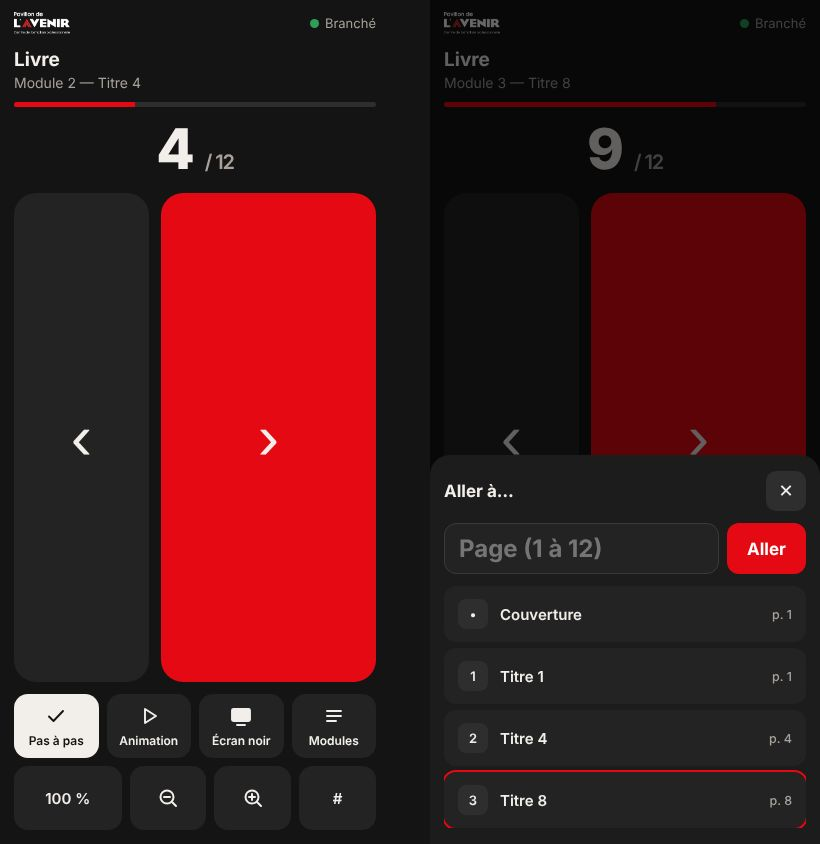
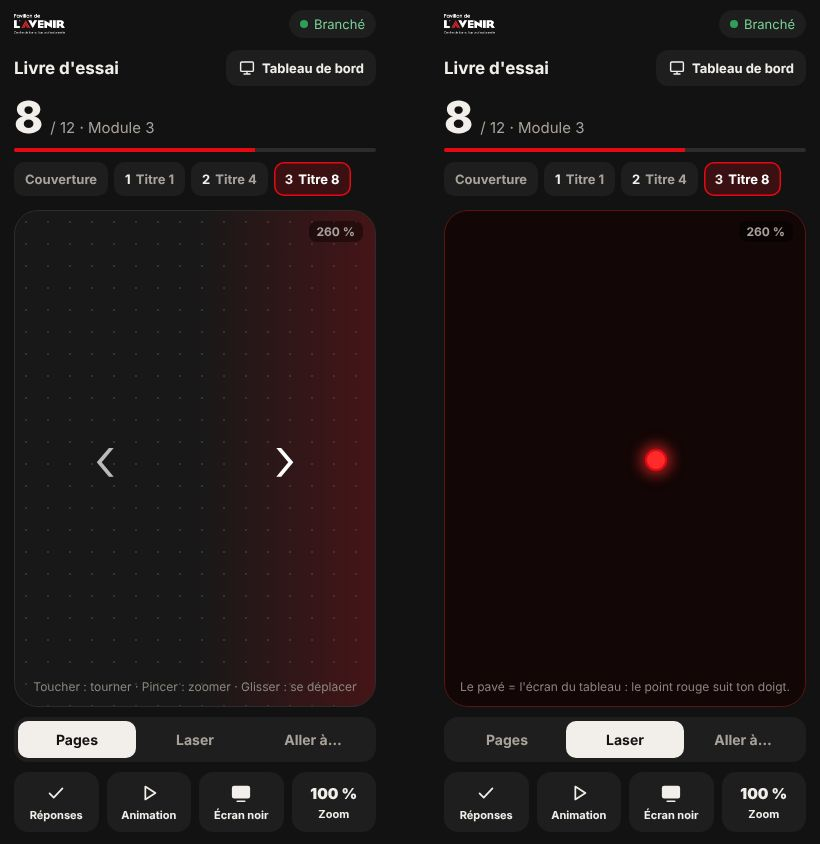
Télécommande « tout en un pavé », bouton Tableau de bord, pastille « Télécommande branchée » dans le livre

diff --git a/telecommande.html b/telecommande.html
@@ -3,84 +3,98 @@
 <head>
 <meta charset="utf-8">
 <meta name="viewport" content="width=device-width,initial-scale=1,viewport-fit=cover,user-scalable=no">
-<meta name="theme-color" content="#141414">
+<meta name="theme-color" content="#121212">
 <title>Télécommande</title>
 <script src="https://cdn.jsdelivr.net/npm/@supabase/supabase-js@2.50.0/dist/umd/supabase.min.js"></script>
 <style>
-:root{--fond:#141414;--carte:#232323;--carte2:#2E2E2E;--txt:#F2EFEA;--gris:#A8A29A;--rouge:#E50914;--vert:#2E9E5B}
+:root{--fond:#121212;--carte:#1E1E1E;--carte2:#2C2C2C;--txt:#F2EFEA;--gris:#A8A29A;--rouge:#E50914;--vert:#2E9E5B}
 *{box-sizing:border-box;-webkit-tap-highlight-color:transparent}
 html,body{margin:0;height:100%;background:var(--fond);color:var(--txt);font-family:system-ui,-apple-system,"Segoe UI",sans-serif;overscroll-behavior:none;-webkit-user-select:none;user-select:none}
-body{display:flex;flex-direction:column;padding:calc(env(safe-area-inset-top) + 12px) 14px calc(env(safe-area-inset-bottom) + 14px)}
-.haut{display:flex;align-items:center;gap:10px}
-.haut img{height:22px}
-.etat{margin-left:auto;font-size:13px;color:var(--gris);display:flex;align-items:center;gap:6px}
-.etat i{width:9px;height:9px;border-radius:50%;background:#777}.etat.ok i{background:var(--vert)}.etat.ko i{background:var(--rouge)}
-h1{font-size:19px;margin:14px 0 2px;line-height:1.25;display:-webkit-box;-webkit-line-clamp:2;-webkit-box-orient:vertical;overflow:hidden}
-.ou{color:var(--gris);font-size:14px;min-height:18px}
-.barre{height:5px;background:var(--carte2);border-radius:3px;margin:10px 0 14px;overflow:hidden}.barre b{display:block;height:100%;width:0;background:var(--rouge);transition:width .3s}
-.page{font-size:56px;font-weight:800;text-align:center;letter-spacing:-.02em;line-height:1}
-.page small{font-size:20px;color:var(--gris);font-weight:600}
-.fleches{flex:1;display:grid;grid-template-columns:1fr 1.6fr;gap:12px;margin:16px 0 12px;min-height:180px}
-.fleches button{border:0;border-radius:22px;background:var(--carte);color:var(--txt);font-size:64px;font-weight:300;touch-action:manipulation;transition:transform .08s,background .15s}
-.fleches #suiv{background:var(--rouge)}
-.fleches button:active{transform:scale(.97);background:#3a3a3a}.fleches #suiv:active{background:#B80710}
-.outils{display:grid;grid-template-columns:repeat(4,1fr);gap:8px}
-.outils button,.bas button{border:0;border-radius:14px;background:var(--carte);color:var(--txt);min-height:64px;font:600 12px system-ui,sans-serif;display:flex;flex-direction:column;align-items:center;justify-content:center;gap:5px;touch-action:manipulation}
-.outils button:active,.bas button:active{background:var(--carte2)}
-.outils button.on{background:#F2EFEA;color:#141414}
-.outils svg,.bas svg{width:24px;height:24px}
-.bas{display:grid;grid-template-columns:1.4fr 1fr 1fr 1fr;gap:8px;margin-top:8px}
-.bas button{flex-direction:row;font-size:15px}
+body{display:flex;flex-direction:column;padding:calc(env(safe-area-inset-top) + 10px) 14px calc(env(safe-area-inset-bottom) + 12px)}
+button{font-family:inherit;touch-action:manipulation}
+svg{width:22px;height:22px;fill:none;stroke:currentColor;stroke-width:1.9;stroke-linecap:round;stroke-linejoin:round}
+.cache{display:none!important}
+/* haut */
+.l1{display:flex;align-items:center;gap:10px}
+.l1 img{height:20px}
+.etat{margin-left:auto;font-size:13px;color:var(--gris);display:flex;align-items:center;gap:6px;background:var(--carte);border-radius:20px;padding:6px 11px}
+.etat i{width:8px;height:8px;border-radius:50%;background:#777}.etat.ok{color:#7BD39A}.etat.ok i{background:var(--vert)}.etat.ko i{background:var(--rouge)}
+.l2{display:flex;align-items:center;gap:10px;margin-top:12px}
+.l2 h1{flex:1;min-width:0;font-size:17px;margin:0;white-space:nowrap;overflow:hidden;text-overflow:ellipsis}
+#bTdb{flex:none;border:0;background:var(--carte);color:var(--txt);border-radius:12px;padding:9px 12px;font-size:13px;font-weight:700;display:flex;gap:6px;align-items:center}
+#bTdb svg{width:18px;height:18px}
+#bTdb.on{background:var(--txt);color:var(--fond)}
+.page{display:flex;align-items:baseline;gap:8px;margin-top:8px}
+.page b{font-size:44px;font-weight:800;letter-spacing:-.02em;line-height:1.05}
+.page span{color:var(--gris);font-size:15px;white-space:nowrap;overflow:hidden;text-overflow:ellipsis}
+.barre{height:4px;background:var(--carte2);border-radius:2px;margin-top:8px;overflow:hidden}.barre i{display:block;height:100%;width:0;background:var(--rouge);transition:width .3s}
+.mods{display:flex;gap:6px;margin-top:10px;overflow-x:auto;scrollbar-width:none;-webkit-overflow-scrolling:touch;padding-bottom:2px}
+.mods::-webkit-scrollbar{display:none}
+.mods button{flex:none;border:0;background:var(--carte);color:var(--gris);border-radius:10px;padding:9px 11px;font-size:13px;font-weight:700;white-space:nowrap}
+.mods button.on{background:#3a1012;color:#fff;box-shadow:inset 0 0 0 1.5px var(--rouge)}
+.mods em{font-style:normal;color:var(--txt);margin-right:5px}
+/* pavé */
+.pad{flex:1;min-height:170px;margin:12px 0 10px;border-radius:24px;background:#181818;border:1px solid #2C2C2C;position:relative;overflow:hidden;touch-action:none;
+  background-image:radial-gradient(circle,#333 1.2px,transparent 1.4px);background-size:22px 22px}
+.cote{position:absolute;top:0;bottom:0;width:50%;display:flex;align-items:center;justify-content:center;font-size:62px;font-weight:300;color:#bbb;pointer-events:none;transition:background .15s}
+.cote.g{left:0}.cote.d{right:0;color:#fff;background:linear-gradient(90deg,transparent,rgba(229,9,20,.22))}
+.cote.flash{background:rgba(255,255,255,.12)!important}
+.aide{position:absolute;left:0;right:0;bottom:12px;text-align:center;font-size:12px;color:#8a857e;pointer-events:none;padding:0 12px}
+.doigt{position:absolute;width:50px;height:50px;margin:-25px 0 0 -25px;border-radius:50%;background:rgba(229,9,20,.3);border:2px solid var(--rouge);pointer-events:none;display:none}
+.pad.laser{background:#120606;background-image:none;border-color:#5a1414}
+.pad.laser .cote{display:none}
+.pad.laser .doigt{width:22px;height:22px;margin:-11px 0 0 -11px;background:#FF2A2A;box-shadow:0 0 14px 4px rgba(255,42,42,.7)}
+.zoomtag{position:absolute;top:10px;right:12px;font-size:12px;font-weight:700;color:var(--gris);background:rgba(0,0,0,.4);border-radius:8px;padding:3px 8px;pointer-events:none}
+/* bas */
+.seg{display:grid;grid-template-columns:repeat(3,1fr);background:var(--carte);border-radius:14px;padding:4px}
+.seg button{border:0;background:transparent;color:var(--gris);border-radius:10px;padding:10px;font-size:14px;font-weight:700}
+.seg button.on{background:var(--txt);color:var(--fond)}
+.outils{display:grid;grid-template-columns:repeat(4,1fr);gap:8px;margin-top:10px}
+.outils button{border:0;background:var(--carte);color:var(--txt);border-radius:14px;height:60px;display:flex;flex-direction:column;align-items:center;justify-content:center;gap:4px;font-size:11px;font-weight:700}
+.outils button:active,.mods button:active,#bTdb:active{filter:brightness(1.3)}
+.outils button.on{background:var(--txt);color:var(--fond)}
+.outils button:disabled{opacity:.35}
+.outils b{font-size:15px}
+/* feuille Aller à */
 .feuille{position:fixed;inset:0;background:rgba(0,0,0,.6);display:flex;align-items:flex-end;z-index:5}
 .feuille[hidden]{display:none}
-.feuille>div{background:#1C1C1C;width:100%;max-height:82vh;border-radius:20px 20px 0 0;padding:16px 14px calc(env(safe-area-inset-bottom) + 16px);display:flex;flex-direction:column;gap:12px}
+.feuille>div{background:#1A1A1A;width:100%;max-height:84vh;border-radius:20px 20px 0 0;padding:16px 14px calc(env(safe-area-inset-bottom) + 16px);display:flex;flex-direction:column;gap:12px}
 .feuille h2{margin:0;font-size:17px;display:flex;justify-content:space-between;align-items:center}
 .feuille h2 button{border:0;background:var(--carte2);color:var(--txt);border-radius:10px;width:40px;height:40px;font-size:18px}
 .saut{display:flex;gap:8px}.saut input{flex:1;min-width:0;font:700 24px system-ui;background:var(--carte);border:1px solid #3a3a3a;color:var(--txt);border-radius:12px;padding:10px 14px}
-.saut button{border:0;border-radius:12px;background:var(--rouge);color:#fff;font:700 17px system-ui;padding:0 20px}
+.saut button{border:0;border-radius:12px;background:var(--rouge);color:#fff;font-size:17px;font-weight:700;padding:0 20px}
 .liste{overflow:auto;display:flex;flex-direction:column;gap:6px;-webkit-overflow-scrolling:touch}
-.liste button{border:0;text-align:left;background:var(--carte);color:var(--txt);border-radius:12px;padding:13px 14px;font:600 15px system-ui;display:flex;gap:12px;align-items:center}
-.liste button.ici{outline:2px solid var(--rouge)}
+.liste button{border:0;text-align:left;background:var(--carte);color:var(--txt);border-radius:12px;padding:13px 14px;font-size:15px;font-weight:600;display:flex;gap:12px;align-items:center}
+.liste button.on{box-shadow:inset 0 0 0 2px var(--rouge)}
 .liste em{font-style:normal;min-width:30px;height:30px;border-radius:8px;background:var(--carte2);display:inline-flex;align-items:center;justify-content:center;font-size:13px}
 .liste span{flex:1}.liste small{color:var(--gris);font-weight:500}
+/* attente */
 .vide{flex:1;display:flex;flex-direction:column;align-items:center;justify-content:center;text-align:center;color:var(--gris);gap:12px;padding:20px;font-size:16px;line-height:1.45}
 .vide b{color:var(--txt);font-size:20px}
-.cache{display:none!important}
-.mode{display:grid;grid-template-columns:.8fr 1.3fr .8fr;gap:4px;background:var(--carte);border-radius:12px;padding:4px;margin-top:14px}
-.mode button{border:0;border-radius:9px;background:transparent;color:var(--gris);font:700 14px system-ui;padding:9px}
-.mode button.on{background:var(--carte2);color:var(--txt)}
-.pad{flex:1;margin:12px 0;min-height:180px;border-radius:22px;background:#1B1B1B;border:1px solid #333;position:relative;touch-action:none;overflow:hidden;
-  background-image:radial-gradient(circle,#3a3a3a 1.2px,transparent 1.4px);background-size:22px 22px}
-.pad span{position:absolute;inset:0;display:flex;align-items:center;justify-content:center;text-align:center;color:var(--gris);font-size:15px;padding:20px;pointer-events:none;line-height:1.4}
-.pad.laser{background-image:none;background:#120606;border-color:#5a1414}
-.pad.laser i{width:22px;height:22px;margin:-11px 0 0 -11px;background:#FF2A2A;box-shadow:0 0 14px 4px rgba(255,42,42,.7)}
-.pad i{position:absolute;width:54px;height:54px;margin:-27px 0 0 -27px;border-radius:50%;background:rgba(229,9,20,.35);border:2px solid var(--rouge);pointer-events:none;display:none}
 </style>
 </head>
 <body>
-<div class="haut"><img src="img/pavillon-avenir-blanc.png" alt="Pavillon de l'Avenir"><span class="etat" id="etat"><i></i><span>Connexion…</span></span></div>
+<div class="l1"><img src="img/pavillon-avenir-blanc.png" alt="Pavillon de l'Avenir"><span class="etat" id="etat"><i></i><span>Connexion…</span></span></div>
 
 <div id="attente" class="vide"><b>Télécommande</b><span id="attTxt">Connexion à l'ordinateur du tableau…</span></div>
 
-<div id="tele" class="cache" style="display:flex;flex-direction:column;flex:1">
-  <h1 id="titre"></h1>
-  <div class="ou" id="ou"></div>
-  <div class="barre"><b id="prog"></b></div>
-  <div class="page" id="page">–</div>
-  <div class="mode"><button id="mPages" class="on">Pages</button><button id="mPad">Zoom et déplacer</button><button id="mLaser">Laser</button></div>
-  <div class="pad cache" id="pad"><span id="padTxt">Un doigt : te promener. Deux doigts : pincer pour zoomer.</span><i id="padDoigt"></i></div>
-  <div class="fleches"><button id="prec" aria-label="Page précédente">‹</button><button id="suiv" aria-label="Page suivante">›</button></div>
-  <div class="outils">
-    <button id="bRep"><svg viewBox="0 0 24 24" fill="none" stroke="currentColor" stroke-width="1.9" stroke-linecap="round" stroke-linejoin="round"><path d="M5 12.5l4.5 4.5L19 7"/></svg><span id="bRepT">Réponses</span></button>
-    <button id="bAnim"><svg viewBox="0 0 24 24" fill="none" stroke="currentColor" stroke-width="1.9" stroke-linecap="round" stroke-linejoin="round"><path d="M8 5l11 7-11 7z"/></svg>Animation</button>
-    <button id="bNoir"><svg viewBox="0 0 24 24" fill="none" stroke="currentColor" stroke-width="1.9" stroke-linecap="round" stroke-linejoin="round"><rect x="3" y="5" width="18" height="12" rx="1.5" fill="currentColor"/><path d="M8 21h8"/></svg>Écran noir</button>
-    <button id="bAller"><svg viewBox="0 0 24 24" fill="none" stroke="currentColor" stroke-width="1.9" stroke-linecap="round" stroke-linejoin="round"><path d="M5 7h14M5 12h14M5 17h9"/></svg>Modules</button>
+<div id="tele" class="cache" style="display:flex;flex-direction:column;flex:1;min-height:0">
+  <div class="l2"><h1 id="titre"></h1><button id="bTdb"><svg viewBox="0 0 24 24"><rect x="3.5" y="4" width="17" height="12.5" rx="1.5"/><path d="M8 20h8M12 16.5V20"/></svg><span id="bTdbT">Tableau de bord</span></button></div>
+  <div class="page"><b id="pNum">–</b><span id="pInfo"></span></div>
+  <div class="barre"><i id="prog"></i></div>
+  <div class="mods" id="mods"></div>
+  <div class="pad" id="pad">
+    <div class="cote g" id="cG">‹</div><div class="cote d" id="cD">›</div>
+    <span class="zoomtag cache" id="zTag"></span>
+    <div class="aide" id="aide">Toucher : tourner · Pincer : zoomer · Glisser : se déplacer</div>
+    <i class="doigt" id="doigt"></i>
   </div>
-  <div class="bas">
-    <button id="bZv">100 %</button>
-    <button id="bZo" aria-label="Zoom arrière"><svg viewBox="0 0 24 24" fill="none" stroke="currentColor" stroke-width="2" stroke-linecap="round"><circle cx="11" cy="11" r="6.5"/><path d="M8 11h6M16 16l4 4"/></svg></button>
-    <button id="bZi" aria-label="Zoom avant"><svg viewBox="0 0 24 24" fill="none" stroke="currentColor" stroke-width="2" stroke-linecap="round"><circle cx="11" cy="11" r="6.5"/><path d="M8 11h6M11 8v6M16 16l4 4"/></svg></button>
-    <button id="bPage" aria-label="Aller à une page">#</button>
+  <div class="seg"><button id="sPages" class="on">Pages</button><button id="sLaser">Laser</button><button id="sAller">Aller à…</button></div>
+  <div class="outils">
+    <button id="bRep"><svg viewBox="0 0 24 24"><path d="M5 12.5l4.5 4.5L19 7"/></svg><span id="bRepT">Réponses</span></button>
+    <button id="bAnim"><svg viewBox="0 0 24 24"><path d="M8 5l11 7-11 7z"/></svg>Animation</button>
+    <button id="bNoir"><svg viewBox="0 0 24 24"><rect x="3" y="5" width="18" height="12" rx="1.5" fill="currentColor"/><path d="M8 21h8"/></svg>Écran noir</button>
+    <button id="bZv"><b>100 %</b>Zoom</button>
   </div>
 </div>
 
@@ -91,63 +105,71 @@ h1{font-size:19px;margin:14px 0 2px;line-height:1.25;display:-webkit-box;-webkit
 </div></div>
 
 <script>
-/* Télécommande des livres (Bibliothèque du Pavillon de l'Avenir).
+/* Télécommande des livres (Bibliothèque du Pavillon de l'Avenir) — version « tout en un pavé » (7 nov.).
    Ouverte par le code QR du bouton « Télécommande » du lecteur : telecommande.html#k=<jeton>.
-   Envoie des ordres {m:"cmd", c} sur le canal Supabase « pda-livre-<jeton> »; reçoit l'état du livre {m:"etat"}. */
+   Envoie {m:"cmd", c} sur le canal Supabase « pda-livre-<jeton> », signe de vie {m:"vie"} aux 10 s; reçoit l'état du livre {m:"etat"}.
+   Pavé : toucher à droite/gauche = page suivante/précédente, 1 doigt glissé = se déplacer, 2 doigts = zoom; onglet Laser = point rouge au tableau. */
 const $ = id => document.getElementById(id);
 const esc = s => String(s == null ? "" : s).replace(/[&<>"]/g, c => ({"&": "&amp;", "<": "&lt;", ">": "&gt;", '"': "&quot;"})[c]);
 const SB_URL = "https://kjlotlhqrgekzohshmbn.supabase.co", SB_CLE = "sb_publishable_1C-o-75sf7havBRmUWA8aQ_gcEW4sRY";
 const jeton = (/k=([a-z0-9]{8,})/.exec(location.hash) || [])[1];
-let canal = null, pret = false, E = null, vuA = 0;
+let canal = null, pret = false, E = null, vuA = 0, laser = false, modsCle = "";
 
 function etat(t, cls){ const e = $("etat"); e.className = "etat " + (cls || ""); e.lastChild.textContent = t; }
 function envoyer(o){ if (canal && pret) canal.send({type: "broadcast", event: "m", payload: o}).catch(() => {}); }
 function cmd(c, x){ if (navigator.vibrate) navigator.vibrate(12); envoyer(Object.assign({m: "cmd", c}, x || {})); }
 
+function modIci(){ let r = -1; (E.mods || []).forEach((m, i) => { if (m.p != null && m.p <= E.page) r = i; }); return r; }
+const courte = t => { t = String(t || ""); return t.length > 22 ? t.slice(0, 21) + "…" : t; };
 function rendre(){
   const ok = E && E.ouvert;
   $("attente").classList.toggle("cache", !!ok); $("tele").classList.toggle("cache", !ok);
-  if (!ok){ $("attTxt").textContent = E ? "Branché ✓. Ouvre un livre sur l'ordinateur du tableau." : "Connexion à l'ordinateur du tableau…"; return; }
+  if (!ok){ $("attTxt").textContent = E ? "Branché. Ouvre un livre sur l'ordinateur du tableau." : "Connexion à l'ordinateur du tableau…"; return; }
   $("titre").textContent = E.titre || "";
-  const m = modIci(); $("ou").textContent = m ? (m.tag ? "Module " + m.tag + " — " : "") + m.t : "";
-  $("page").innerHTML = esc(E.label || E.page) + (E.tot ? ` <small>/ ${E.tot}</small>` : "");
+  const i = modIci(), m = (E.mods || [])[i];
+  $("pNum").textContent = E.label || E.page;
+  $("pInfo").textContent = (E.tot ? "/ " + E.tot : "") + (m && m.tag ? " · Module " + m.tag : m ? " · " + m.t : "");
   $("prog").style.width = E.tot ? Math.min(100, 100 * E.page / E.tot) + "%" : "0";
-  $("bRep").disabled = E.ans == null; $("bRep").style.opacity = E.ans == null ? .35 : 1;
-  $("bRep").classList.toggle("on", E.ans > 0); $("bRepT").textContent = E.ans === 1 ? "Pas à pas" : E.ans === 2 ? "Toutes" : "Réponses";
+  /* pastilles des modules (refaites seulement si la liste change) */
+  const cle = JSON.stringify(E.mods || []);
+  if (cle !== modsCle){ modsCle = cle;
+    $("mods").innerHTML = (E.mods || []).map((x, k) => `<button data-i="${k}">${x.tag ? `<em>${esc(x.tag)}</em>` : ""}${esc(courte(x.t))}</button>`).join("");
+    $("mods").querySelectorAll("[data-i]").forEach(b => b.onclick = () => cmd("mod", {i: +b.dataset.i})); }
+  $("mods").classList.toggle("cache", !(E.mods || []).length);
+  $("mods").querySelectorAll("[data-i]").forEach(b => { const on = +b.dataset.i === i; if (on && !b.classList.contains("on")) b.scrollIntoView({inline: "center", block: "nearest", behavior: "smooth"}); b.classList.toggle("on", on); });
+  $("bTdb").classList.toggle("on", !!E.tdb); $("bTdbT").textContent = E.tdb ? "Revenir au livre" : "Tableau de bord";
+  $("bRep").disabled = E.ans == null; $("bRep").classList.toggle("on", E.ans > 0);
+  $("bRepT").textContent = E.ans === 1 ? "Pas à pas" : E.ans === 2 ? "Toutes" : "Réponses";
   $("bNoir").classList.toggle("on", !!E.noir);
-  $("bAller").style.opacity = (E.mods || []).length ? 1 : .35;
+  const z = E.zoom || 1; $("zTag").classList.toggle("cache", z < 1.02); $("zTag").textContent = Math.round(z * 100) + " %";
   if (!$("feuille").hidden) liste();
-  majPad();
 }
-function modIci(){ let r = null; (E.mods || []).forEach(m => { if (m.p != null && m.p <= E.page) r = m; }); return r; }
+
+/* onglets du bas */
+function onglet(n){ laser = n === "laser"; $("sPages").classList.toggle("on", !laser); $("sLaser").classList.toggle("on", laser); $("pad").classList.toggle("laser", laser);
+  $("aide").textContent = laser ? "Le pavé = l'écran du tableau : le point rouge suit ton doigt." : "Toucher : tourner · Pincer : zoomer · Glisser : se déplacer"; }
+$("sPages").onclick = () => onglet("pages"); $("sLaser").onclick = () => onglet("laser"); $("sAller").onclick = () => ouvrir();
+$("bTdb").onclick = () => cmd("tdb");
+$("bRep").onclick = () => cmd("rep"); $("bAnim").onclick = () => cmd("anim"); $("bNoir").onclick = () => cmd("noir"); $("bZv").onclick = () => cmd("zv");
+
+/* feuille « Aller à… » */
 function liste(){
   const ici = modIci();
-  $("fListe").innerHTML = (E.mods || []).map((m, i) => `<button data-i="${i}" class="${m === ici ? "ici" : ""}"><em>${esc(m.tag || "•")}</em><span>${esc(m.t)}</span>${m.p ? `<small>p. ${m.p}</small>` : ""}</button>`).join("") || '<div style="color:var(--gris);padding:8px">Ce livre n\'a pas de table des matières.</div>';
+  $("fListe").innerHTML = (E.mods || []).map((m, i) => `<button data-i="${i}" class="${i === ici ? "on" : ""}"><em>${esc(m.tag || "•")}</em><span>${esc(m.t)}</span>${m.p ? `<small>p. ${m.p}</small>` : ""}</button>`).join("") || '<div style="color:var(--gris);padding:8px">Ce livre n\'a pas de table des matières.</div>';
   $("fListe").querySelectorAll("[data-i]").forEach(b => b.onclick = () => { cmd("mod", {i: +b.dataset.i}); fermer(); });
 }
-function ouvrir(focusNum){ $("feuille").hidden = false; $("fNum").value = ""; $("fNum").placeholder = E && E.tot ? "Page (1 à " + E.tot + ")" : "Page"; liste();
-  const ici = $("fListe").querySelector(".ici"); if (ici) ici.scrollIntoView({block: "center"}); if (focusNum) $("fNum").focus(); }
+function ouvrir(){ $("feuille").hidden = false; $("fNum").value = ""; $("fNum").placeholder = E && E.tot ? "Page (1 à " + E.tot + ")" : "Page"; liste();
+  const ici = $("fListe").querySelector(".on"); if (ici) ici.scrollIntoView({block: "center"}); }
 function fermer(){ $("feuille").hidden = true; $("fNum").blur(); }
-
-$("prec").onclick = () => cmd("prev"); $("suiv").onclick = () => cmd("next");
-$("bRep").onclick = () => cmd("rep"); $("bAnim").onclick = () => cmd("anim"); $("bNoir").onclick = () => cmd("noir");
-$("bZi").onclick = () => { cmd("zi"); mode(true); }; $("bZo").onclick = () => cmd("zo"); $("bZv").onclick = () => { cmd("zv"); mode(false); };
-$("bAller").onclick = () => ouvrir(false); $("bPage").onclick = () => ouvrir(true);
 $("fFermer").onclick = fermer; $("feuille").onclick = e => { if (e.target.id === "feuille") fermer(); };
 $("fGo").onclick = () => { const n = parseInt($("fNum").value, 10); if (n > 0){ cmd("goto", {n}); fermer(); } };
 $("fNum").onkeydown = e => { if (e.key === "Enter") $("fGo").click(); };
 document.addEventListener("dblclick", e => e.preventDefault(), {passive: false});
 
-/* Pad tactile : glisser = se déplacer dans la page zoomée (comme le pavé d'un portable) */
-let modePad = false, laser = false;
-function mode(p, las){ modePad = p; laser = !!las; $("mPad").classList.toggle("on", p && !laser); $("mPages").classList.toggle("on", !p); $("mLaser").classList.toggle("on", laser);
-  $("pad").classList.toggle("cache", !p); $("pad").classList.toggle("laser", laser); document.querySelector(".fleches").classList.toggle("cache", p); majPad(); }
-function majPad(){ $("padTxt").textContent = laser ? "Le pavé = l'écran du tableau. Pose le doigt : le point rouge apparaît au même endroit." : E && E.zoom > 1.02 ? "Un doigt : te promener. Deux doigts : pincer pour zoomer." : "Pince avec deux doigts pour zoomer, puis glisse un doigt pour te promener."; }
-$("mPages").onclick = () => mode(false); $("mPad").onclick = () => mode(true); $("mLaser").onclick = () => mode(true, true);
+/* le pavé */
 (function(){
-  /* 1 doigt = se déplacer; 2 doigts = pincer pour zoomer (comme sur une photo) */
-  const pad = $("pad"), dg = $("padDoigt"), P = new Map(); let acc = [0, 0], f = 1, minu = null, dist0 = 0;
-  const vider = () => { minu = null;
+  const pad = $("pad"), dg = $("doigt"), P = new Map(); let acc = [0, 0], f = 1, minu = null, dist0 = 0, t0 = 0, p0 = null, bouge = 0, deux = false;
+  const vider = () => { clearTimeout(minu); minu = null;
     if (acc[0] || acc[1]){ envoyer({m: "cmd", c: "pan", dx: Math.round(acc[0]), dy: Math.round(acc[1])}); acc = [0, 0]; }
     if (Math.abs(f - 1) > .01){ envoyer({m: "cmd", c: "pz", f: +f.toFixed(3)}); f = 1; } };
   const plus = () => { if (!minu) minu = setTimeout(vider, 50); };
@@ -157,26 +179,35 @@ $("mPages").onclick = () => mode(false); $("mPad").onclick = () => mode(true); $
   const laserEnv = () => { lasT = null; if (las) envoyer({m: "cmd", c: "laser", x: las[0], y: las[1], on: las[2]}); };
   const laserA = (e, on) => { const r = pad.getBoundingClientRect(); las = [+((e.clientX - r.left) / r.width).toFixed(4), +((e.clientY - r.top) / r.height).toFixed(4), on];
     if (!on){ clearTimeout(lasT); laserEnv(); } else if (!lasT) lasT = setTimeout(laserEnv, 40); };
-  pad.addEventListener("pointerdown", e => { if (laser){ e.preventDefault(); try { pad.setPointerCapture(e.pointerId); } catch(x){} P.set(e.pointerId, 1); montrer(e); laserA(e, 1); return; } });
-  pad.addEventListener("pointermove", e => { if (laser && P.has(e.pointerId)){ e.preventDefault(); montrer(e); laserA(e, 1); } });
-  pad.addEventListener("pointerup", e => { if (laser && P.has(e.pointerId)) laserA(e, 0); });
-  pad.addEventListener("pointercancel", e => { if (laser && P.has(e.pointerId)) laserA(e, 0); });
-  pad.addEventListener("pointerdown", e => { if (laser) return; e.preventDefault(); try { pad.setPointerCapture(e.pointerId); } catch(x){} P.set(e.pointerId, [e.clientX, e.clientY]); montrer(e); if (P.size === 2) dist0 = ecart(); });
-  pad.addEventListener("pointermove", e => { if (laser || !P.has(e.pointerId)) return; e.preventDefault(); const p = P.get(e.pointerId);
-    if (P.size === 1){ acc[0] += e.clientX - p[0]; acc[1] += e.clientY - p[1]; }
+  pad.addEventListener("pointerdown", e => { e.preventDefault(); try { pad.setPointerCapture(e.pointerId); } catch(x){}
+    P.set(e.pointerId, [e.clientX, e.clientY]); montrer(e);
+    if (laser){ laserA(e, 1); return; }
+    if (P.size === 1){ t0 = Date.now(); p0 = [e.clientX, e.clientY]; bouge = 0; deux = false; acc = [0, 0]; }
+    if (P.size === 2){ dist0 = ecart(); deux = true; } });
+  pad.addEventListener("pointermove", e => { if (!P.has(e.pointerId)) return; e.preventDefault(); montrer(e);
+    if (laser){ laserA(e, 1); return; }
+    const p = P.get(e.pointerId);
+    if (P.size === 1 && !deux){ acc[0] += e.clientX - p[0]; acc[1] += e.clientY - p[1]; if (p0) bouge = Math.max(bouge, Math.hypot(e.clientX - p0[0], e.clientY - p0[1])); }
     P.set(e.pointerId, [e.clientX, e.clientY]);
     if (P.size === 2){ const d = ecart(); if (dist0 > 20) f *= d / dist0; dist0 = d; }
-    montrer(e); plus(); });
-  const fin = e => { P.delete(e.pointerId); dist0 = P.size === 2 ? ecart() : 0; if (!P.size) dg.style.display = "none"; vider(); };
+    if (deux || bouge > 12) plus(); });   /* un vrai glissement (pas un toucher) : on envoie le déplacement */
+  const fin = e => { if (!P.has(e.pointerId)) return;
+    if (laser) laserA(e, 0);
+    else if (P.size === 1 && !deux && bouge <= 12 && Date.now() - t0 < 450){
+      /* simple toucher : moitié droite = suivante, gauche = précédente */
+      acc = [0, 0]; const r = pad.getBoundingClientRect(), droite = e.clientX - r.left > r.width / 2;
+      cmd(droite ? "next" : "prev"); const c = $(droite ? "cD" : "cG"); c.classList.add("flash"); setTimeout(() => c.classList.remove("flash"), 160);
+    } else vider();
+    P.delete(e.pointerId); dist0 = P.size === 2 ? ecart() : 0; if (!P.size){ dg.style.display = "none"; p0 = null; } };
   pad.addEventListener("pointerup", fin); pad.addEventListener("pointercancel", fin);
-  /* iPhone : bloquer le zoom de la page elle-même pendant le geste */
+  /* iPhone : empêcher le zoom de la page elle-même pendant le geste */
   ["touchstart", "touchmove", "gesturestart", "gesturechange"].forEach(t => pad.addEventListener(t, e => e.preventDefault(), {passive: false}));
 })();
 
 /* écran allumé tant que la télécommande est ouverte */
-let verrou = null;
-async function eveil(){ try { if ("wakeLock" in navigator && document.visibilityState === "visible") verrou = await navigator.wakeLock.request("screen"); } catch(e){} }
+async function eveil(){ try { if ("wakeLock" in navigator && document.visibilityState === "visible") await navigator.wakeLock.request("screen"); } catch(e){} }
 document.addEventListener("visibilitychange", () => { if (document.visibilityState === "visible"){ eveil(); envoyer({m: "allo"}); } });
+addEventListener("pagehide", () => envoyer({m: "bye"}));
 
 if (!jeton){ $("attTxt").innerHTML = "Ce lien n'est pas complet.<br>Dans le livre, touche le bouton <b>Télécommande</b> et scanne le code QR."; etat("Pas de code", "ko"); }
 else if (!window.supabase){ $("attTxt").textContent = "Impossible de joindre le relais. Vérifie Internet puis recharge la page."; etat("Hors ligne", "ko"); }
@@ -185,7 +216,8 @@ else {
   canal = sb.channel("pda-livre-" + jeton, {config: {broadcast: {self: false}}});
   canal.on("broadcast", {event: "m"}, ({payload: o}) => { if (o && o.m === "etat"){ E = o; vuA = Date.now(); etat("Branché", "ok"); rendre(); } });
   canal.subscribe(st => { pret = st === "SUBSCRIBED"; if (pret){ etat("Recherche de l'ordinateur…"); envoyer({m: "allo"}); } else etat("Reconnexion…", "ko"); });
-  /* l'ordinateur répond à « allo »; sans réponse, on redemande */
+  setInterval(() => { if (pret) envoyer({m: "vie"}); }, 10000);
+  /* l'ordinateur répond à « allo »; sans nouvelles, on redemande */
   setInterval(() => { if (pret && Date.now() - vuA > 6000){ envoyer({m: "allo"}); if (E && Date.now() - vuA > 15000) etat("Ordinateur muet", "ko"); } }, 3000);
   eveil();
 }

diff --git a/index.html b/index.html
@@ -254,6 +254,10 @@
   /* ---------- Lecteur de livre ---------- */
   .reader{position:fixed;inset:0;z-index:200;background:#121114;display:none;flex-direction:column}
   .reader.open{display:flex}
+  #telePill{margin-left:auto;margin-right:34px;display:inline-flex;align-items:center;gap:7px;font:600 13px "Segoe UI",Roboto,Arial,sans-serif;color:#7BD39A;background:rgba(46,158,91,.14);border:1px solid rgba(46,158,91,.4);border-radius:20px;padding:5px 12px;white-space:nowrap}
+  #telePill[hidden]{display:none}
+  #telePill i{width:8px;height:8px;border-radius:50%;background:#2E9E5B;box-shadow:0 0 0 0 rgba(46,158,91,.6);animation:telePouls 2s infinite}
+  @keyframes telePouls{70%{box-shadow:0 0 0 7px rgba(46,158,91,0)}100%{box-shadow:0 0 0 0 rgba(46,158,91,0)}}
   .reader-bar{flex:none;display:flex;align-items:center;gap:16px;padding:calc(8px + env(safe-area-inset-top,0px)) 16px 8px;background:#000;border-bottom:1px solid #333}
   .reader-bar button{background:#fff;color:#000;border:0;border-radius:4px;padding:8px 16px;font-weight:700;cursor:pointer;font-size:.9rem}
   .reader-bar span{color:#ddd;font-weight:600;white-space:nowrap;overflow:hidden;text-overflow:ellipsis}
@@ -1005,7 +1009,7 @@ document.addEventListener("keydown", e => { if (e.key !== "/" || e.ctrlKey || e.
 </div>
 
 <div class="reader" id="reader">
-  <div class="reader-bar"><button id="readerBack">← Retour</button><button id="readerTdb" type="button" title="Tableau de bord (E) — le livre reste ouvert"><svg viewBox="0 0 24 24" width="16" height="16" fill="none" stroke="currentColor" stroke-width="1.8" stroke-linecap="round" stroke-linejoin="round" aria-hidden="true"><rect x="3.5" y="4" width="17" height="12.5" rx="1.5"/><path d="M8 20h8M12 16.5V20"/></svg>Tableau de bord</button><span id="readerTitle"></span></div>
+  <div class="reader-bar"><button id="readerBack">← Retour</button><button id="readerTdb" type="button" title="Tableau de bord (E) — le livre reste ouvert"><svg viewBox="0 0 24 24" width="16" height="16" fill="none" stroke="currentColor" stroke-width="1.8" stroke-linecap="round" stroke-linejoin="round" aria-hidden="true"><rect x="3.5" y="4" width="17" height="12.5" rx="1.5"/><path d="M8 20h8M12 16.5V20"/></svg>Tableau de bord</button><span id="readerTitle"></span><span id="telePill" hidden title="Ton cellulaire contrôle ce livre"><i></i>Télécommande branchée</span></div>
   <button class="tdb-pill" id="tdbPill" type="button" title="Retour au tableau de bord (E)"><svg viewBox="0 0 24 24" width="18" height="18" fill="none" stroke="currentColor" stroke-width="1.8" stroke-linecap="round" stroke-linejoin="round" aria-hidden="true"><rect x="3.5" y="4" width="17" height="12.5" rx="1.5"/><path d="M8 20h8M12 16.5V20"/></svg>Tableau de bord</button>
   <div class="rstage" id="rstage">
     <div class="rinner" id="rinner"><div class="rscale" id="rscale">
@@ -6514,6 +6518,7 @@ initAdmin();
   const peEl = () => document.fullscreenElement || document.webkitFullscreenElement;
   const peSignal = ok => { try { fr.contentWindow.postMessage({ type: "accueil-plein-ecran-etat", on: !!peEl(), ok }, "*"); } catch (e) {} };
   window.ouvrirAccueil = ouvrir;
+  window.revenirDuTdb = () => { if (livreOuvert()) fermer(true); };   /* télécommande : « Revenir au livre » */
   const catalogue = () => ({ type:"accueil-catalogue",
     livres:LIVRES.filter(l => l.fichier).map(l => ({ f:l.fichier, titre:l.titre, niveau:l.niveau || "", pages:l.pages || 0 })),
     modeles:MODELES.map(m => ({ id:m.id, nom:m.nom })), schemas:lireSch().map(x => ({ id:String(x.id), nom:x.nom })),
@@ -8837,19 +8842,22 @@ document.addEventListener("keydown", e => { if (e.key === "Escape" && !$("#qrOv"
     let lab = ""; try { lab = String(RD.drv.state().label || ""); } catch(e){}
     let ans = null; try { const i = RD.drv.ansInfo && RD.drv.ansInfo(); if (i && !i.dis) ans = i.mode; } catch(e){}
     return {m: "etat", ouvert: true, titre: l.titre || ($("#readerTitle") && $("#readerTitle").textContent) || (RD.wb ? "Tableau blanc" : "Livre"), label: lab, page: curPage(), tot: totPages(), ans,
-      noir: !!document.querySelector("#noir:not([hidden])"), zoom: Math.round((RD.z || 1) * 100) / 100,
+      noir: !!document.querySelector("#noir:not([hidden])"), tdb: !!($("#accueilOv") && !$("#accueilOv").hidden), zoom: Math.round((RD.z || 1) * 100) / 100,
       mods: mods().map(x => ({t: x.text || "", tag: x.tag || "", p: typeof x.page === "number" ? x.page : null}))};
   }
   function pousser(force){ if (!T.branche) return; const e = etat(), s = JSON.stringify(e); if (force || s !== T.dernier){ T.dernier = s; envoyer(e); } }
   T.pousser = pousser;
   function aller(n){ if (!RD.drv) return; n = Math.max(1, Math.min(totPages() || n, n)); RD.bouge = true; try { RD.drv.goto(n); } catch(e){} setTimeout(() => { try { syncSecond(); poll(); } catch(e){} pousser(); }, 280); }
   function ordre(o){
-    if (o.m === "allo"){ T.branche = true; montrerBranche(); pousser(true); return; }
+    if (o.m === "allo"){ const neuf = Date.now() - (T.vu || 0) > 25000; T.branche = true; T.vu = Date.now(); majPill(); if (neuf) montrerBranche(); pousser(true); return; }
+    if (o.m === "vie"){ T.vu = Date.now(); majPill(); return; }
+    if (o.m === "bye"){ T.vu = 0; majPill(); return; }
     if (o.m !== "cmd" || !RD.drv) return;
     const c = o.c, clic = id => { const b = $("#" + id); if (b && !b.disabled) b.click(); };
     if (c === "next") turn(1); else if (c === "prev") turn(-1);
     else if (c === "goto") aller(+o.n || 1);
     else if (c === "mod"){ const x = mods()[o.i]; if (x){ if (typeof x.page === "number") aller(x.page); else if (x.run){ try { x.run(); } catch(e){} setTimeout(pousser, 300); } } }
+    else if (c === "tdb"){ if ($("#accueilOv") && !$("#accueilOv").hidden){ try { window.revenirDuTdb(); } catch(e){} } else { try { allerTableauDeBord(); } catch(e){} } setTimeout(() => pousser(true), 600); return; }
     else if (c === "rep") answers();
     else if (c === "anim") clic("tbAnim");
     else if (c === "noir") clic("tbNoir");
@@ -8871,6 +8879,9 @@ document.addEventListener("keydown", e => { if (e.key === "Escape" && !$("#qrOv"
     if (on){ dot.style.opacity = 1; cache = setTimeout(() => { dot.style.opacity = 0; }, 4000); }
     else cache = setTimeout(() => { dot.style.opacity = 0; }, 700);
   }
+  /* pastille « Télécommande branchée » dans la barre du livre : le cellulaire donne signe de vie aux 10 s */
+  function majPill(){ const p = $("#telePill"); if (p) p.hidden = !(T.vu && Date.now() - T.vu < 25000); }
+  setInterval(majPill, 2000);
   function brancher(){
     if (T.canal) return Promise.resolve();
     T.jeton = T.jeton || jeton();

diff --git a/CLAUDE.md b/CLAUDE.md
@@ -249,3 +249,4 @@
 - **Réveil Supabase (7 nov.)** : `.github/workflows/reveil-supabase.yml` (GitHub Actions, tous les 3 jours + bouton « Run workflow ») lit la table `reveil` (`rest/v1/reveil`, créée par Jeremy dans le SQL Editor, lecture publique) et `auth/v1/health` pour éviter la pause des 7 jours. Même tâche : si le dernier commit date de plus de 40 jours, elle écrit `.github/derniere-visite.txt` et le pousse (GitHub désactive les tâches planifiées après 60 jours sans commit).
 - **Télécommande des livres (7 nov., « je dois rester debout devant le tableau »)** : bouton `#tbTele` (barre du lecteur, ajouté à `MOV`/`DEF`) → `montrerTele()` réutilise la fenêtre du code QR (`#qrOv.tele`; `montrerQr` enveloppé remet le texte d'origine). Script après « Lien reçu par code QR » (`window.TELE`) : charge supabase-js à la demande, canal `pda-livre-<jeton>` (jeton aléatoire 16 car., dans le lien `telecommande.html#k=…`, nouveau à chaque chargement de la bibliothèque). Cellulaire → `{m:"allo"}` / `{m:"cmd", c: next|prev|goto n|mod i|rep|anim|noir|zi|zo|zv}`; bibliothèque → `{m:"etat", ouvert, titre, label, page, tot, ans, noir, mods[{t,tag,p}]}` (aux 500 ms si changé). `turn(±1)` (donc pas à pas des réponses comme au clavier), `answers()`, clics sur `#tbAnim/#tbNoir/#tbZi…`; modules = `uniformiserModules(RD.drv.modules())`. `telecommande.html` : grosses flèches, outils, feuille « Aller à… » (page + modules), Wake Lock, redemande `allo` aux 6 s. Pavé « Déplacer » (`#pad`, onglets `#mPages`/`#mPad`; loupe + y passe, 100 % revient aux flèches) : 1 doigt → `{c:"pan", dx, dy}`, 2 doigts → `{c:"pz", f}` (→ `zoomSouris` avec `ecran:1`, centré), regroupés aux 50 ms; `eventsPerSecond: 60` des deux côtés (à 20, supabase-js jette les messages en trop) → `#rstage.scrollLeft/Top += d × 2,6`; `etat.zoom` pour l'aide du pavé. Onglet « Laser » (`#mLaser`, `.pad.laser`) : position absolue dans le pavé → `{c:"laser", x, y, on}` (fractions, aux 40 ms) → `laserTele` = point `#laserTele` en `position:fixed` sur toute la fenêtre, effacé 0,7 s après le relâchement (4 s sans nouvelles). Onglet « Laser » (`#mLaser`, `.pad.laser`) : position absolue dans le pavé (0–1) → `{c:"laser", x, y, on}` aux 40 ms → `laserTele` (point `#laserTele` fixé à l'écran, s'efface 0,7 s après le relâchement). Aucun contenu de livre ne passe. Test `t17.js`, `t18d.js`, `t18d.js`, `t18b.js` (faux supabase par BroadcastChannel, livre d'essai `#activite`); pas testé avec un vrai cellulaire ni Supabase en ligne.
 - **Musique du quiz (7 nov.)** : `musique(v, n)` dans `ecran()` (appelée au début de `rendre`) : synthèse WebAudio (Am-F-C-G, 104 bpm, basse triangle + arpège + charleston, doublée les 5 dernières s), seulement en `question`, si « Activer le son » et `reg.son`/`reg.musique` ≠ non (réglage « Musique pendant les questions »). Test `t18.js`.
+- **Télécommande « tout en un pavé » (7 nov., maquette C choisie par Jeremy)** :  refait : haut = logo + « Branché » (gardé, demande de Jeremy), titre +  (Tableau de bord ↔ Revenir au livre →  →  / ; ), page  + barre, pastilles de modules  (défilent, module en cours encadré rouge). Pavé  : toucher (< 12 px, < 450 ms) moitié droite/gauche = /, 1 doigt glissé = , 2 doigts = ; onglets ; outils Réponses, Animation, Écran noir, 100 %. Le cellulaire envoie  aux 10 s et  → pastille  « Télécommande branchée » dans  (visible si signe de vie < 25 s). Test .
